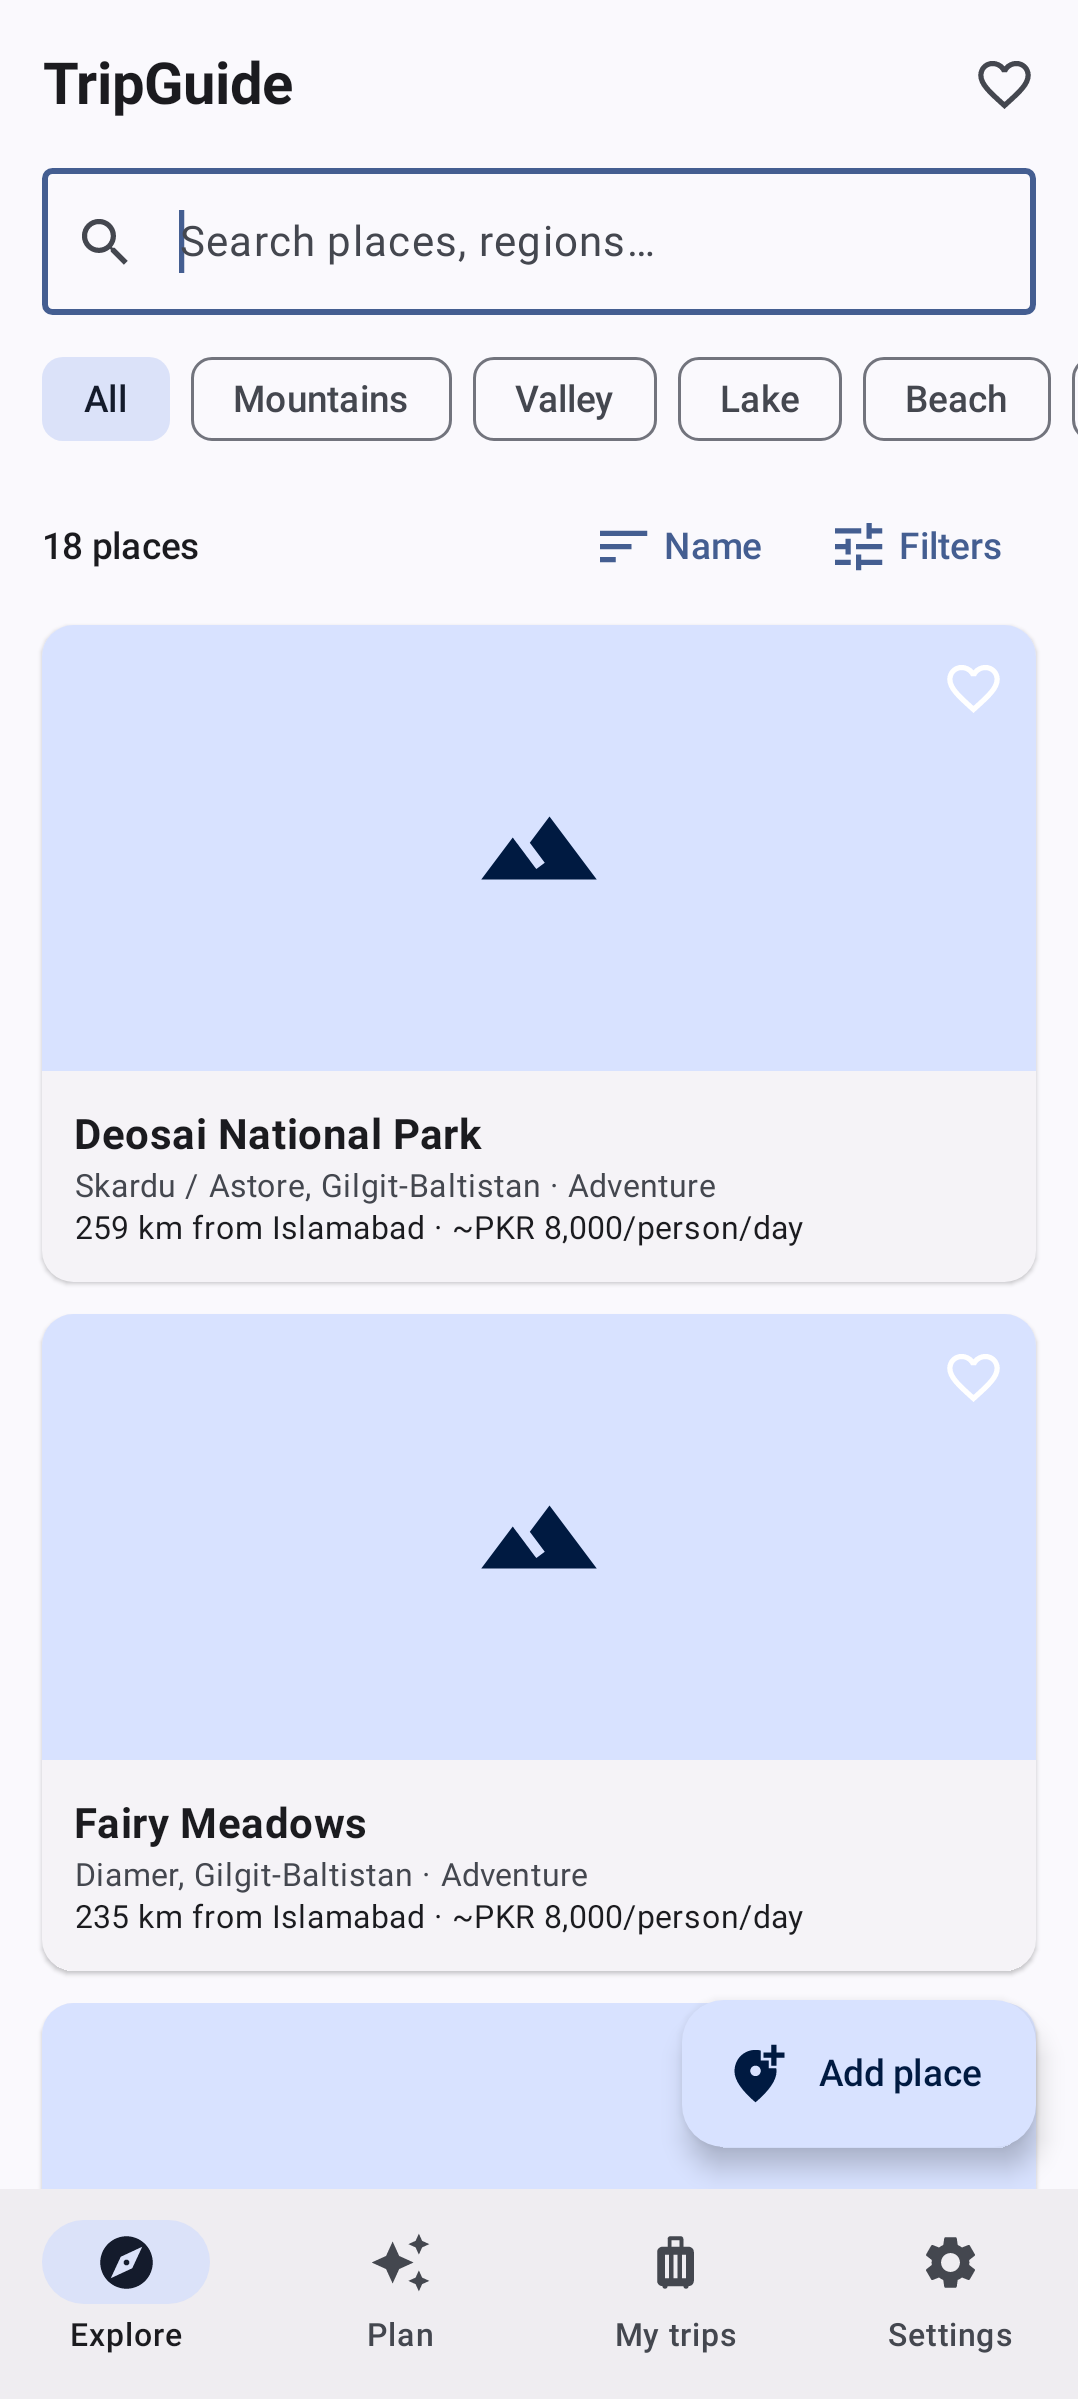
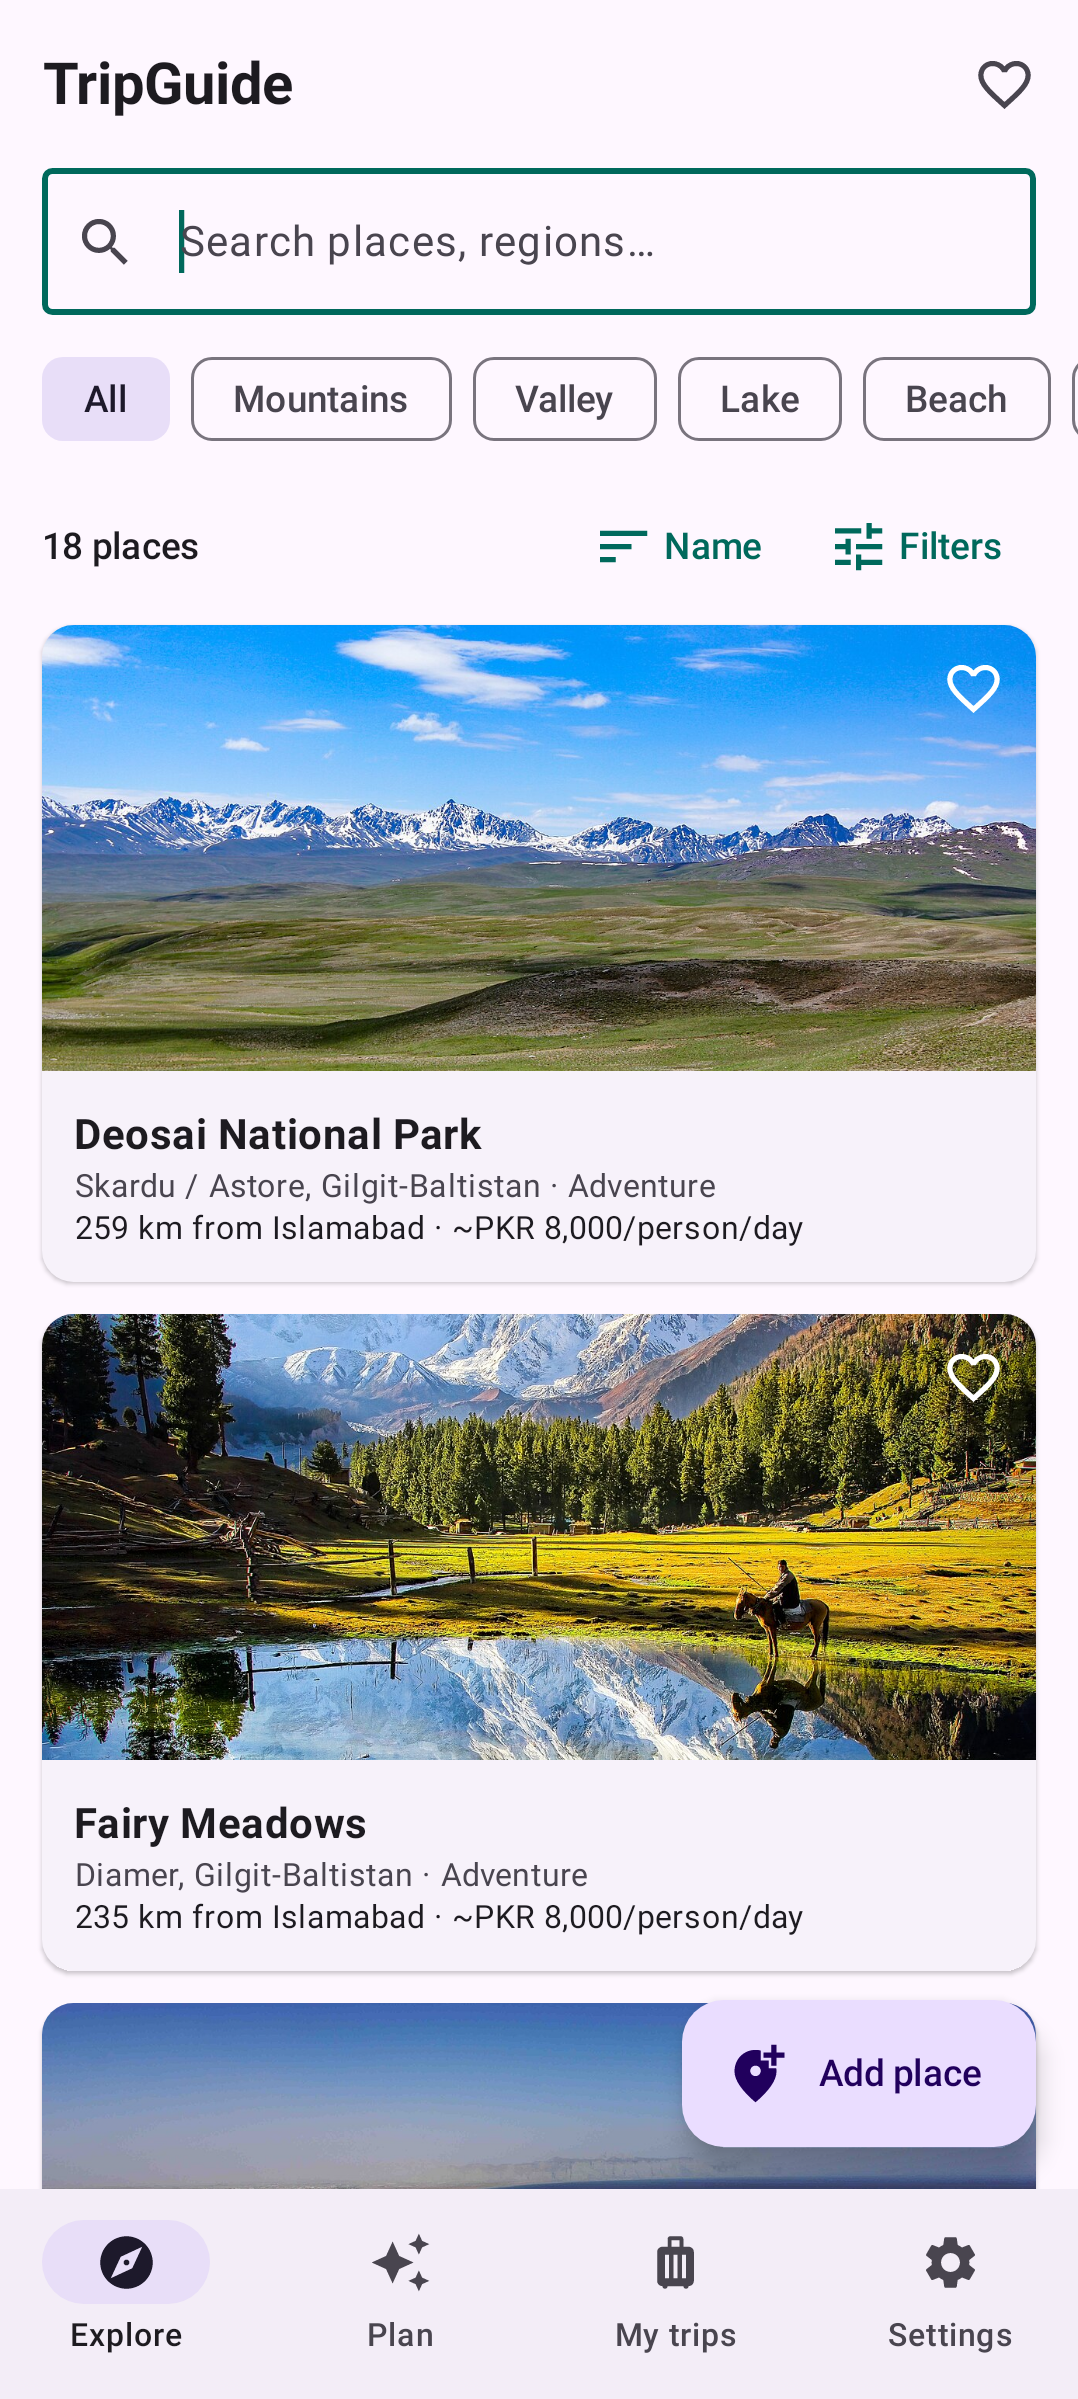
Add attributed place photos, app user agent, store screenshots
- Seed places get 1-4 Wikimedia Commons photos each with author/licence credits
- Coil sends an app User-Agent (Wikimedia throttles generic clients)
- Amenity/filter checkboxes toggle from the whole row
- Condition update form moved to a bottom sheet
- Navigation after DB writes pinned to the main thread
- Store screenshots regenerated with photos and brand colours

Claude-Session: https://claude.ai/code/session_01WP6zm8vQoyTNERf9d7ETp2

diff --git a/app/src/main/java/com/tripguide/app/App.kt b/app/src/main/java/com/tripguide/app/App.kt
@@ -17,6 +17,9 @@ import androidx.core.content.ContextCompat
 import androidx.core.net.toUri
 import androidx.room.Room
 import androidx.work.*
+import coil.ImageLoader
+import coil.ImageLoaderFactory
+import okhttp3.OkHttpClient
 import kotlinx.coroutines.*
 import org.json.JSONObject
 import java.io.File
@@ -24,7 +27,7 @@ import java.net.URL
 import java.util.UUID
 import java.util.concurrent.TimeUnit
 
-class App : Application() {
+class App : Application(), ImageLoaderFactory {
     override fun onCreate() {
         super.onCreate()
         Prefs.init(this)
@@ -32,6 +35,13 @@ class App : Application() {
         Notify.createChannels(this)
         CoroutineScope(Dispatchers.IO).launch { if (db.dao().placeCount() == 0) Seed.load(this@App, db.dao()) }
     }
+
+    // Wikimedia throttles generic HTTP-client user agents; identify the app.
+    override fun newImageLoader() = ImageLoader.Builder(this).okHttpClient {
+        OkHttpClient.Builder().addInterceptor { chain ->
+            chain.proceed(chain.request().newBuilder().header("User-Agent", "TripGuide/${BuildConfig.VERSION_NAME} (Android)").build())
+        }.build()
+    }.build()
 
     companion object {
         lateinit var db: AppDb

diff --git a/app/src/test/java/com/tripguide/app/AppFlowTest.kt b/app/src/test/java/com/tripguide/app/AppFlowTest.kt
@@ -25,15 +25,16 @@ class AppFlowTest {
 
     private fun shot(name: String) {
         rule.waitForIdle()
-        Thread.sleep(1500) // let Coil finish decoding remote photos
-        rule.waitForIdle()
+        repeat(4) { Thread.sleep(1500); rule.waitForIdle() } // let Coil download and decode remote photos
         rule.onRoot().captureRoboImage("../fastlane/metadata/android/en-US/images/phoneScreenshots/$name.png")
     }
 
     private fun waitFor(text: String) = rule.waitUntil(20_000) { rule.onAllNodesWithText(text, substring = true).fetchSemanticsNodes().isNotEmpty() }
 
-    @Before fun initWorkManager() =
+    @Before fun setUp() {
         WorkManagerTestInitHelper.initializeTestWorkManager(androidx.test.core.app.ApplicationProvider.getApplicationContext())
+        Prefs.dynamicColor = false // brand colours in store screenshots
+    }
 
     @Test fun mainFlows() {
         waitFor("18 places")
